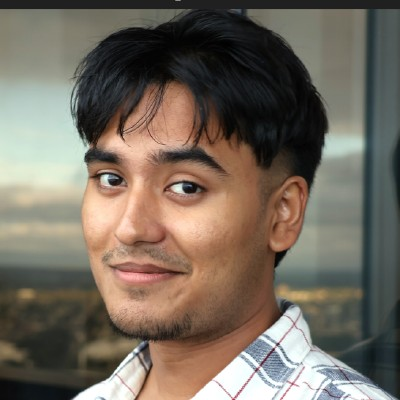
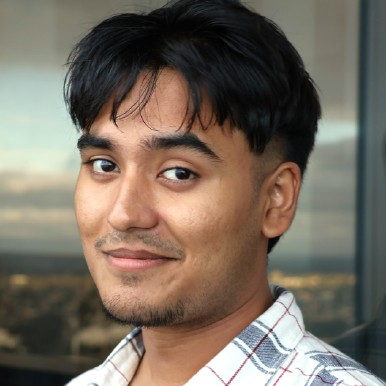
fix(about): trim the dark strip from the top of the portrait
The source image had a 9px dark band along its top edge that showed
above the head in the About photo. Crop it off and keep the image square.

diff --git a/src/components/DodgingPortrait.tsx b/src/components/DodgingPortrait.tsx
@@ -47,8 +47,8 @@ export default function DodgingPortrait() {
         <Image
           src="/portrait.jpg"
           alt="Vanamali Sims"
-          width={400}
-          height={400}
+          width={386}
+          height={386}
           sizes="(max-width: 760px) 100vw, 40vw"
           className={styles.photo}
         />
